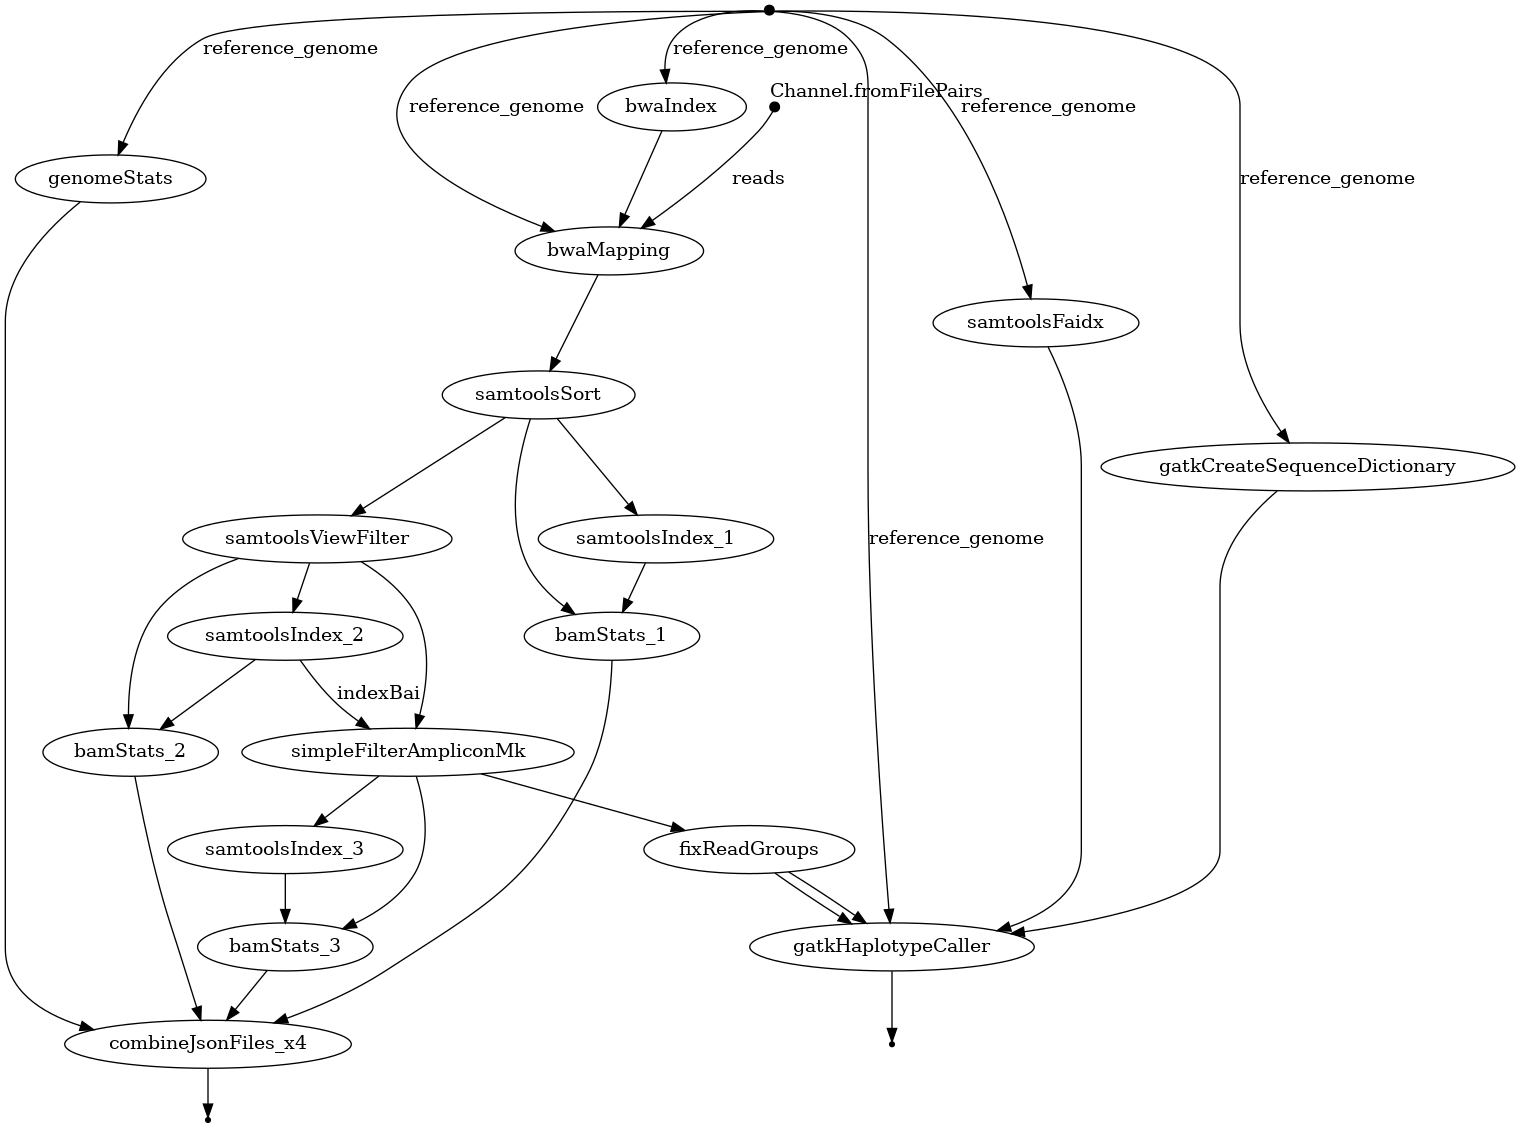
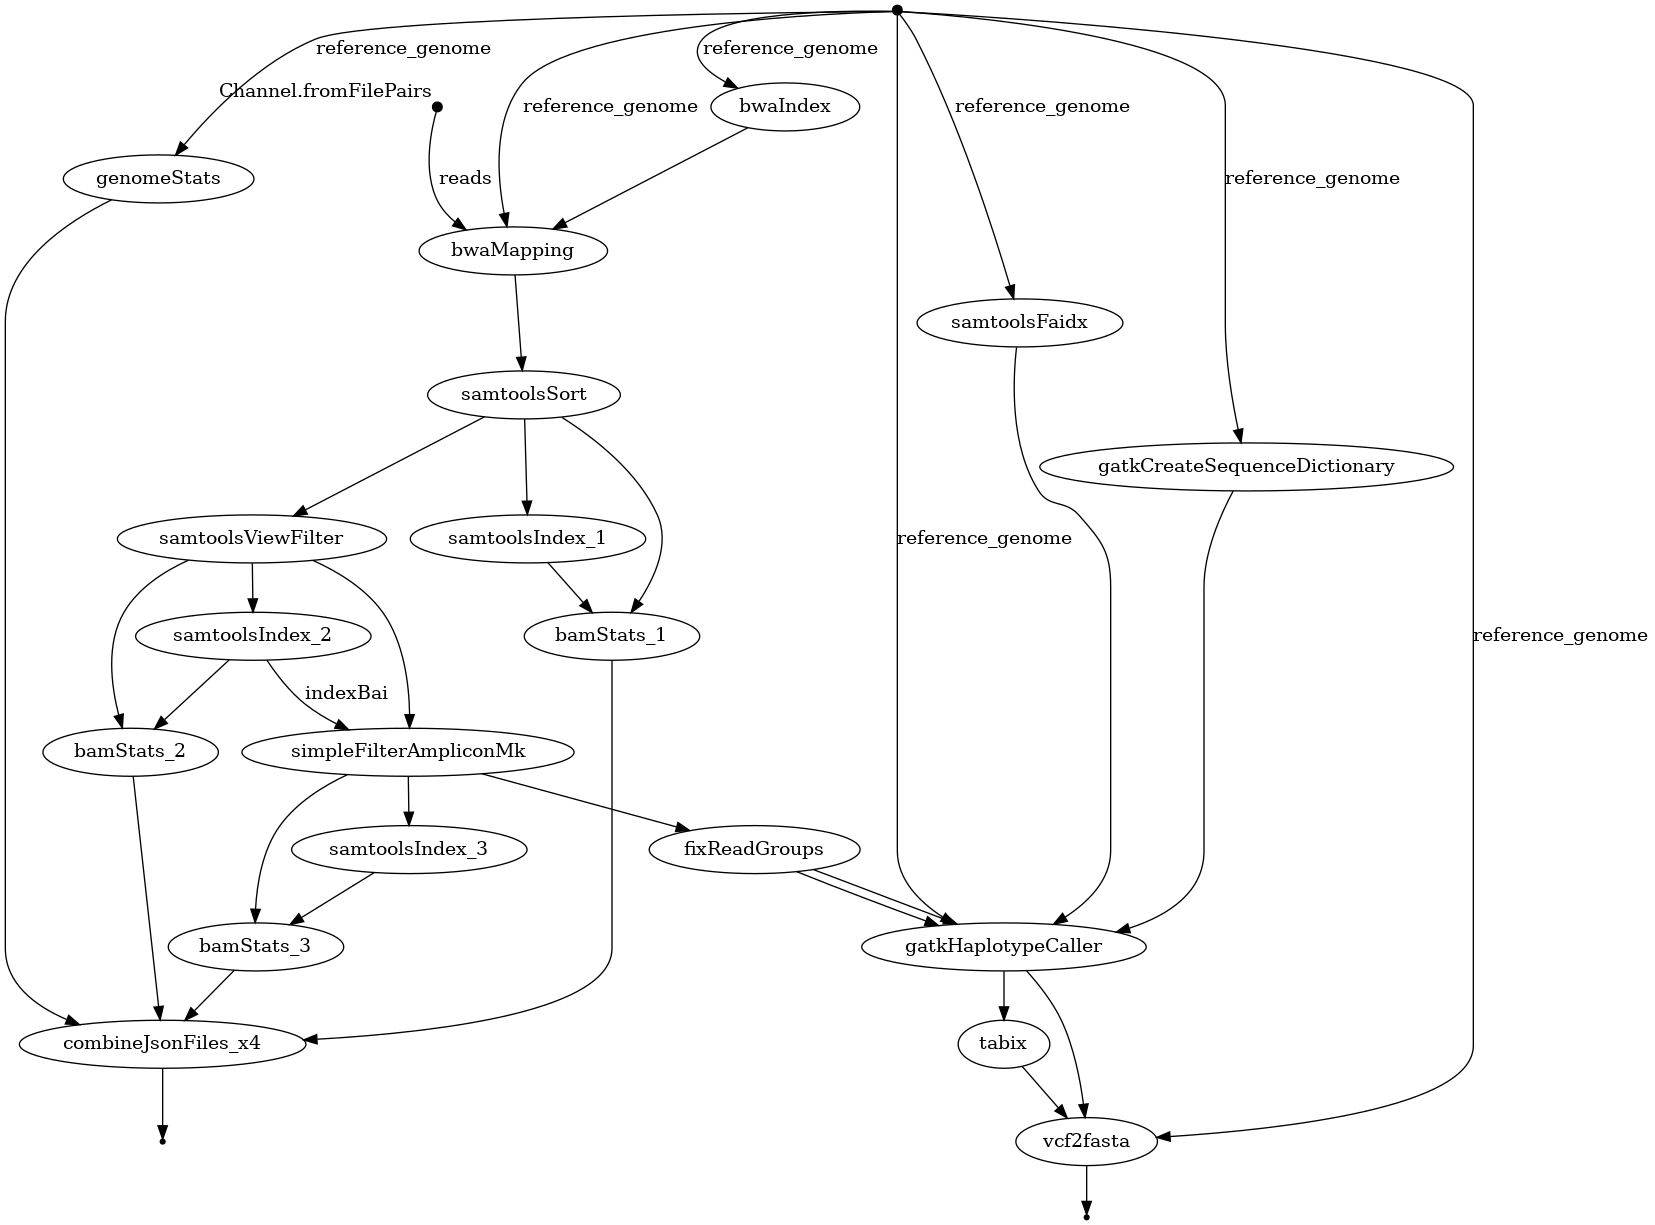
vcf2fasta modules added
Two modules added that allows obtaining fasta from final VCF.
 - tabix (for indexing vcf)
 - vcf2fasta (for actual fasta calling)

diff --git a/bin/simple_filter_amplicon_mk_illumina.py b/bin/simple_filter_amplicon_mk_illumina.py
@@ -77,7 +77,7 @@ def down_sample_bam(input_bam_path: str,
                     cycles: int = 30,
                     chromosomes: Union[list[str], str] = 'all',
                     mode: str = 'single') -> None:
-    """Downsample bam file."""
+    """Down-sample bam file."""
     input_bam_file = pysam.AlignmentFile(input_bam_path, "rb")
     output_bam_file = pysam.AlignmentFile(output_bam_path, "wb", template=input_bam_file)
     list_of_chr = get_list_of_chr(input_bam_file, chromosomes)
@@ -98,7 +98,7 @@ def down_sample_bam(input_bam_path: str,
 
 
 def run_mode_single(bam_file: str, chr_id: str, cycles: int, output_bam: str) -> None:
-    """Run downsampling in single reads mode."""
+    """Run down-sampling in single reads mode."""
     last_covered = -1
     reads = list(bam_file.fetch(region=chr_id))
     number_of_reads = len(reads)
